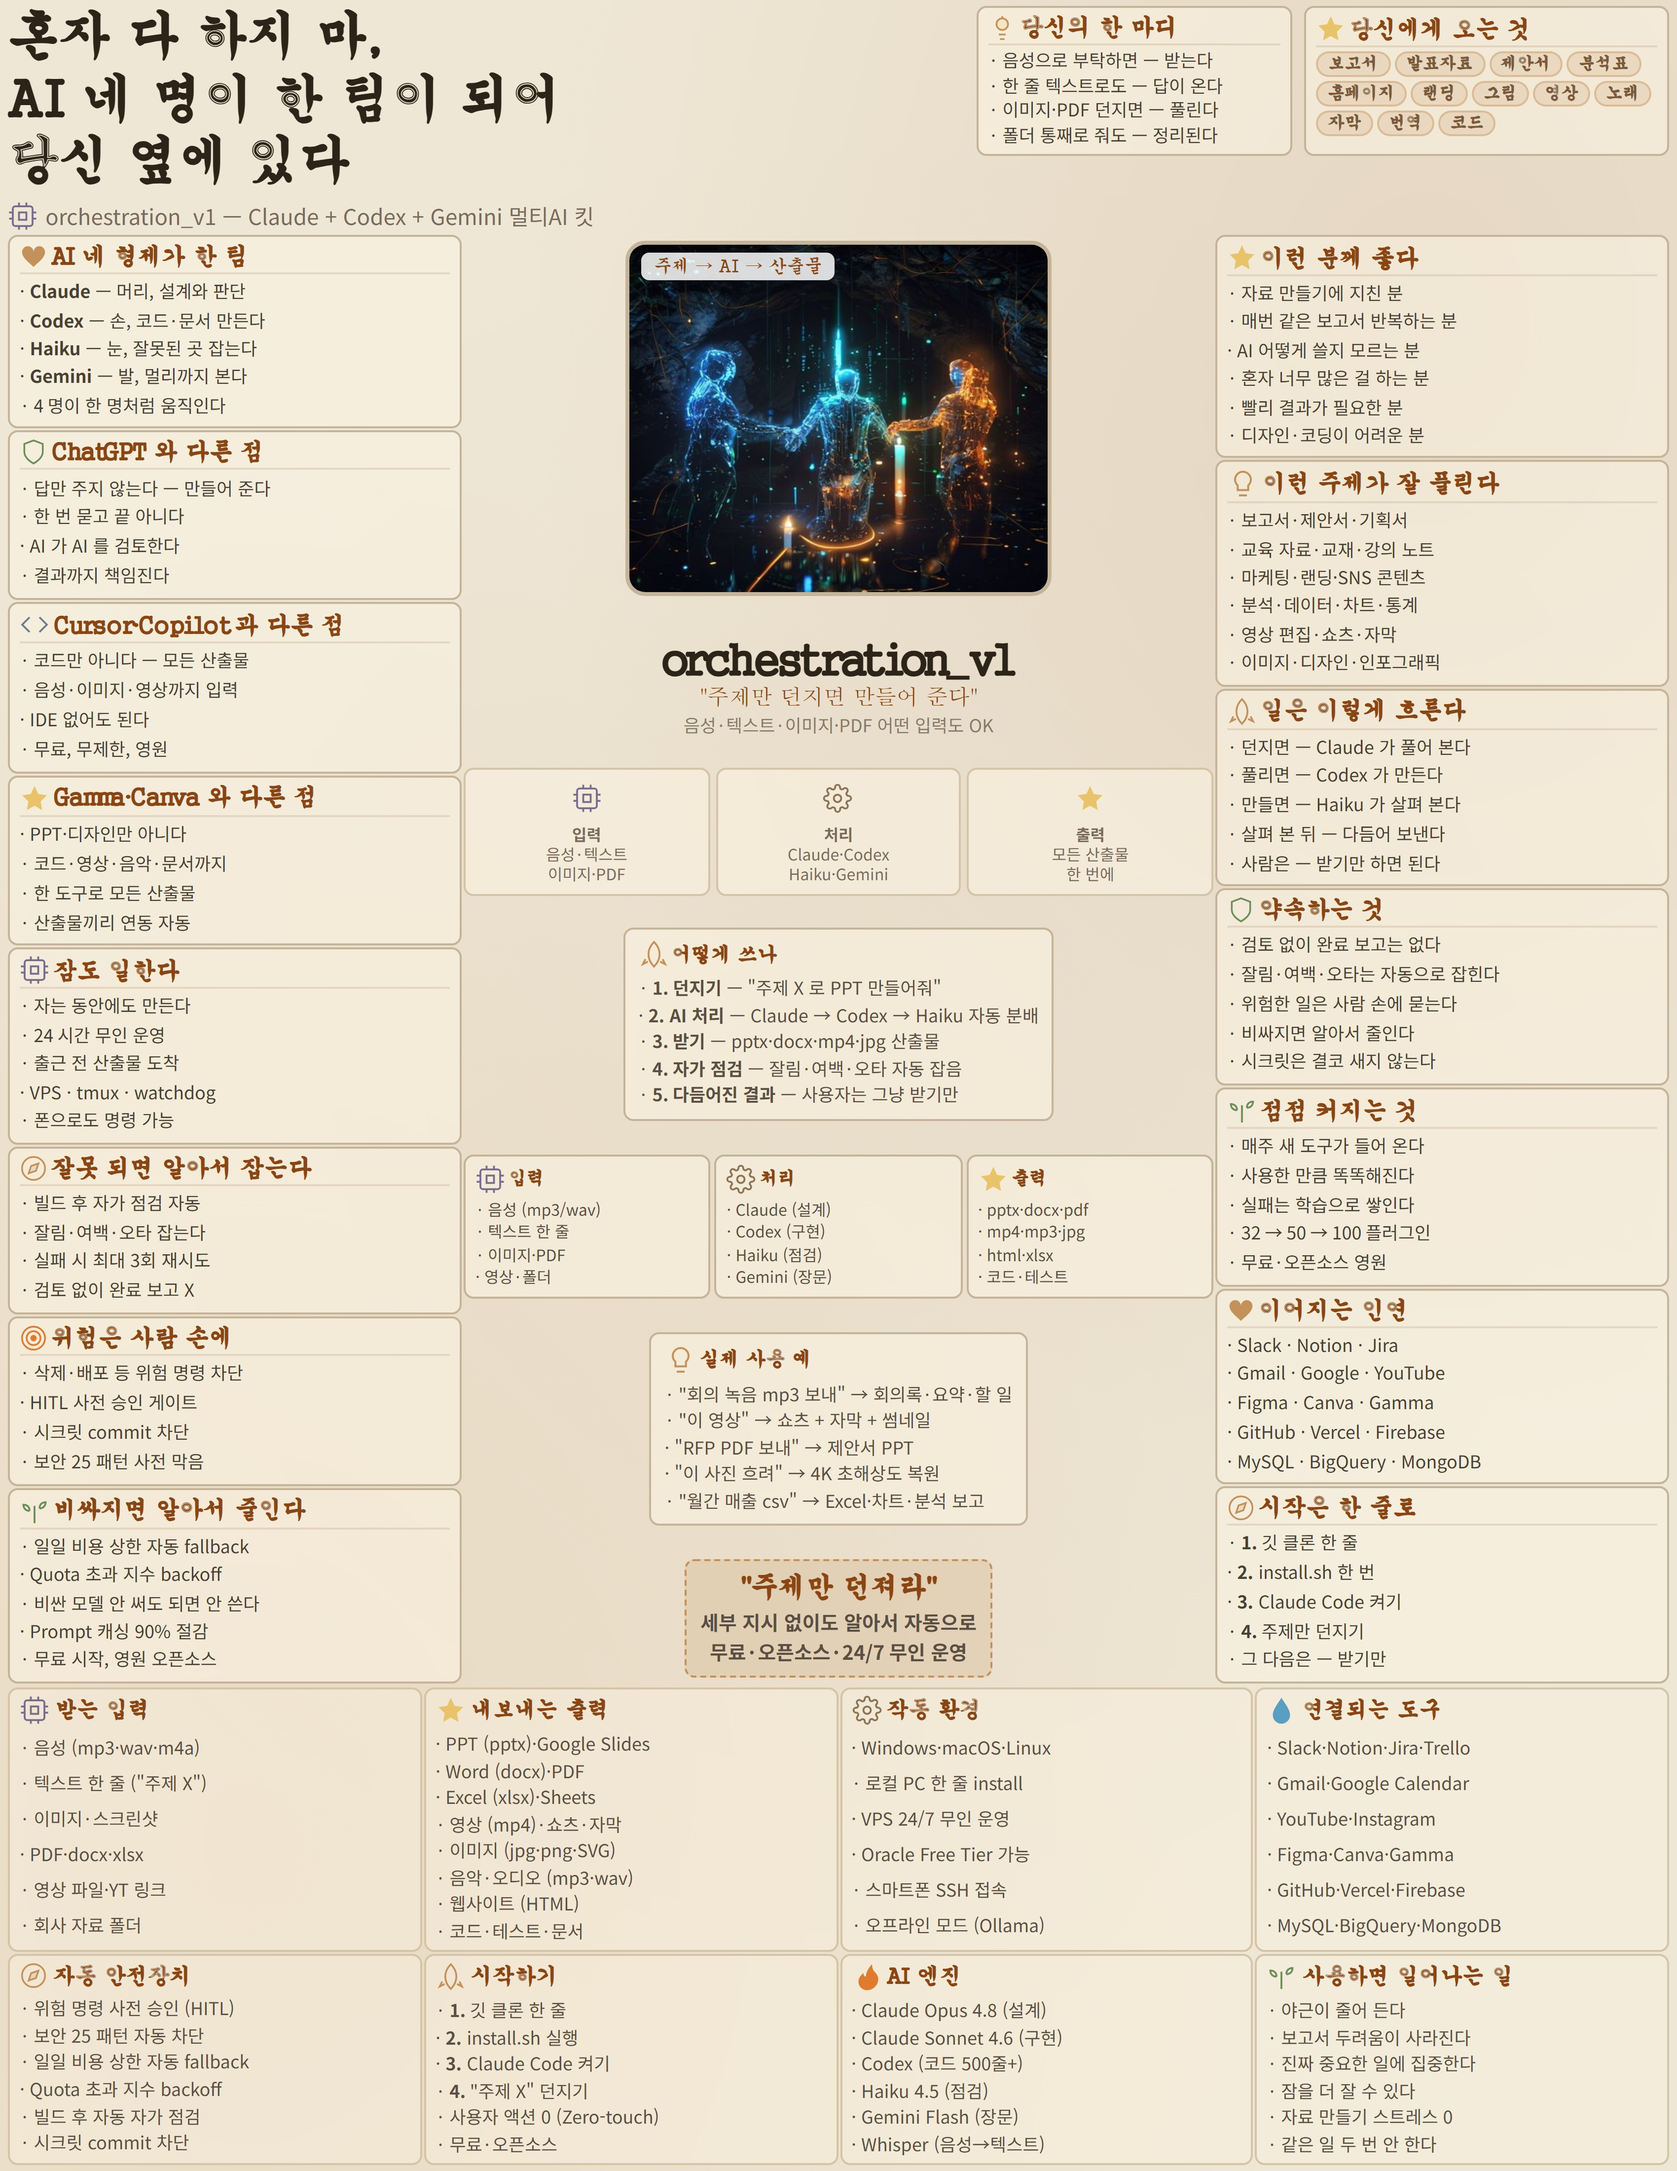
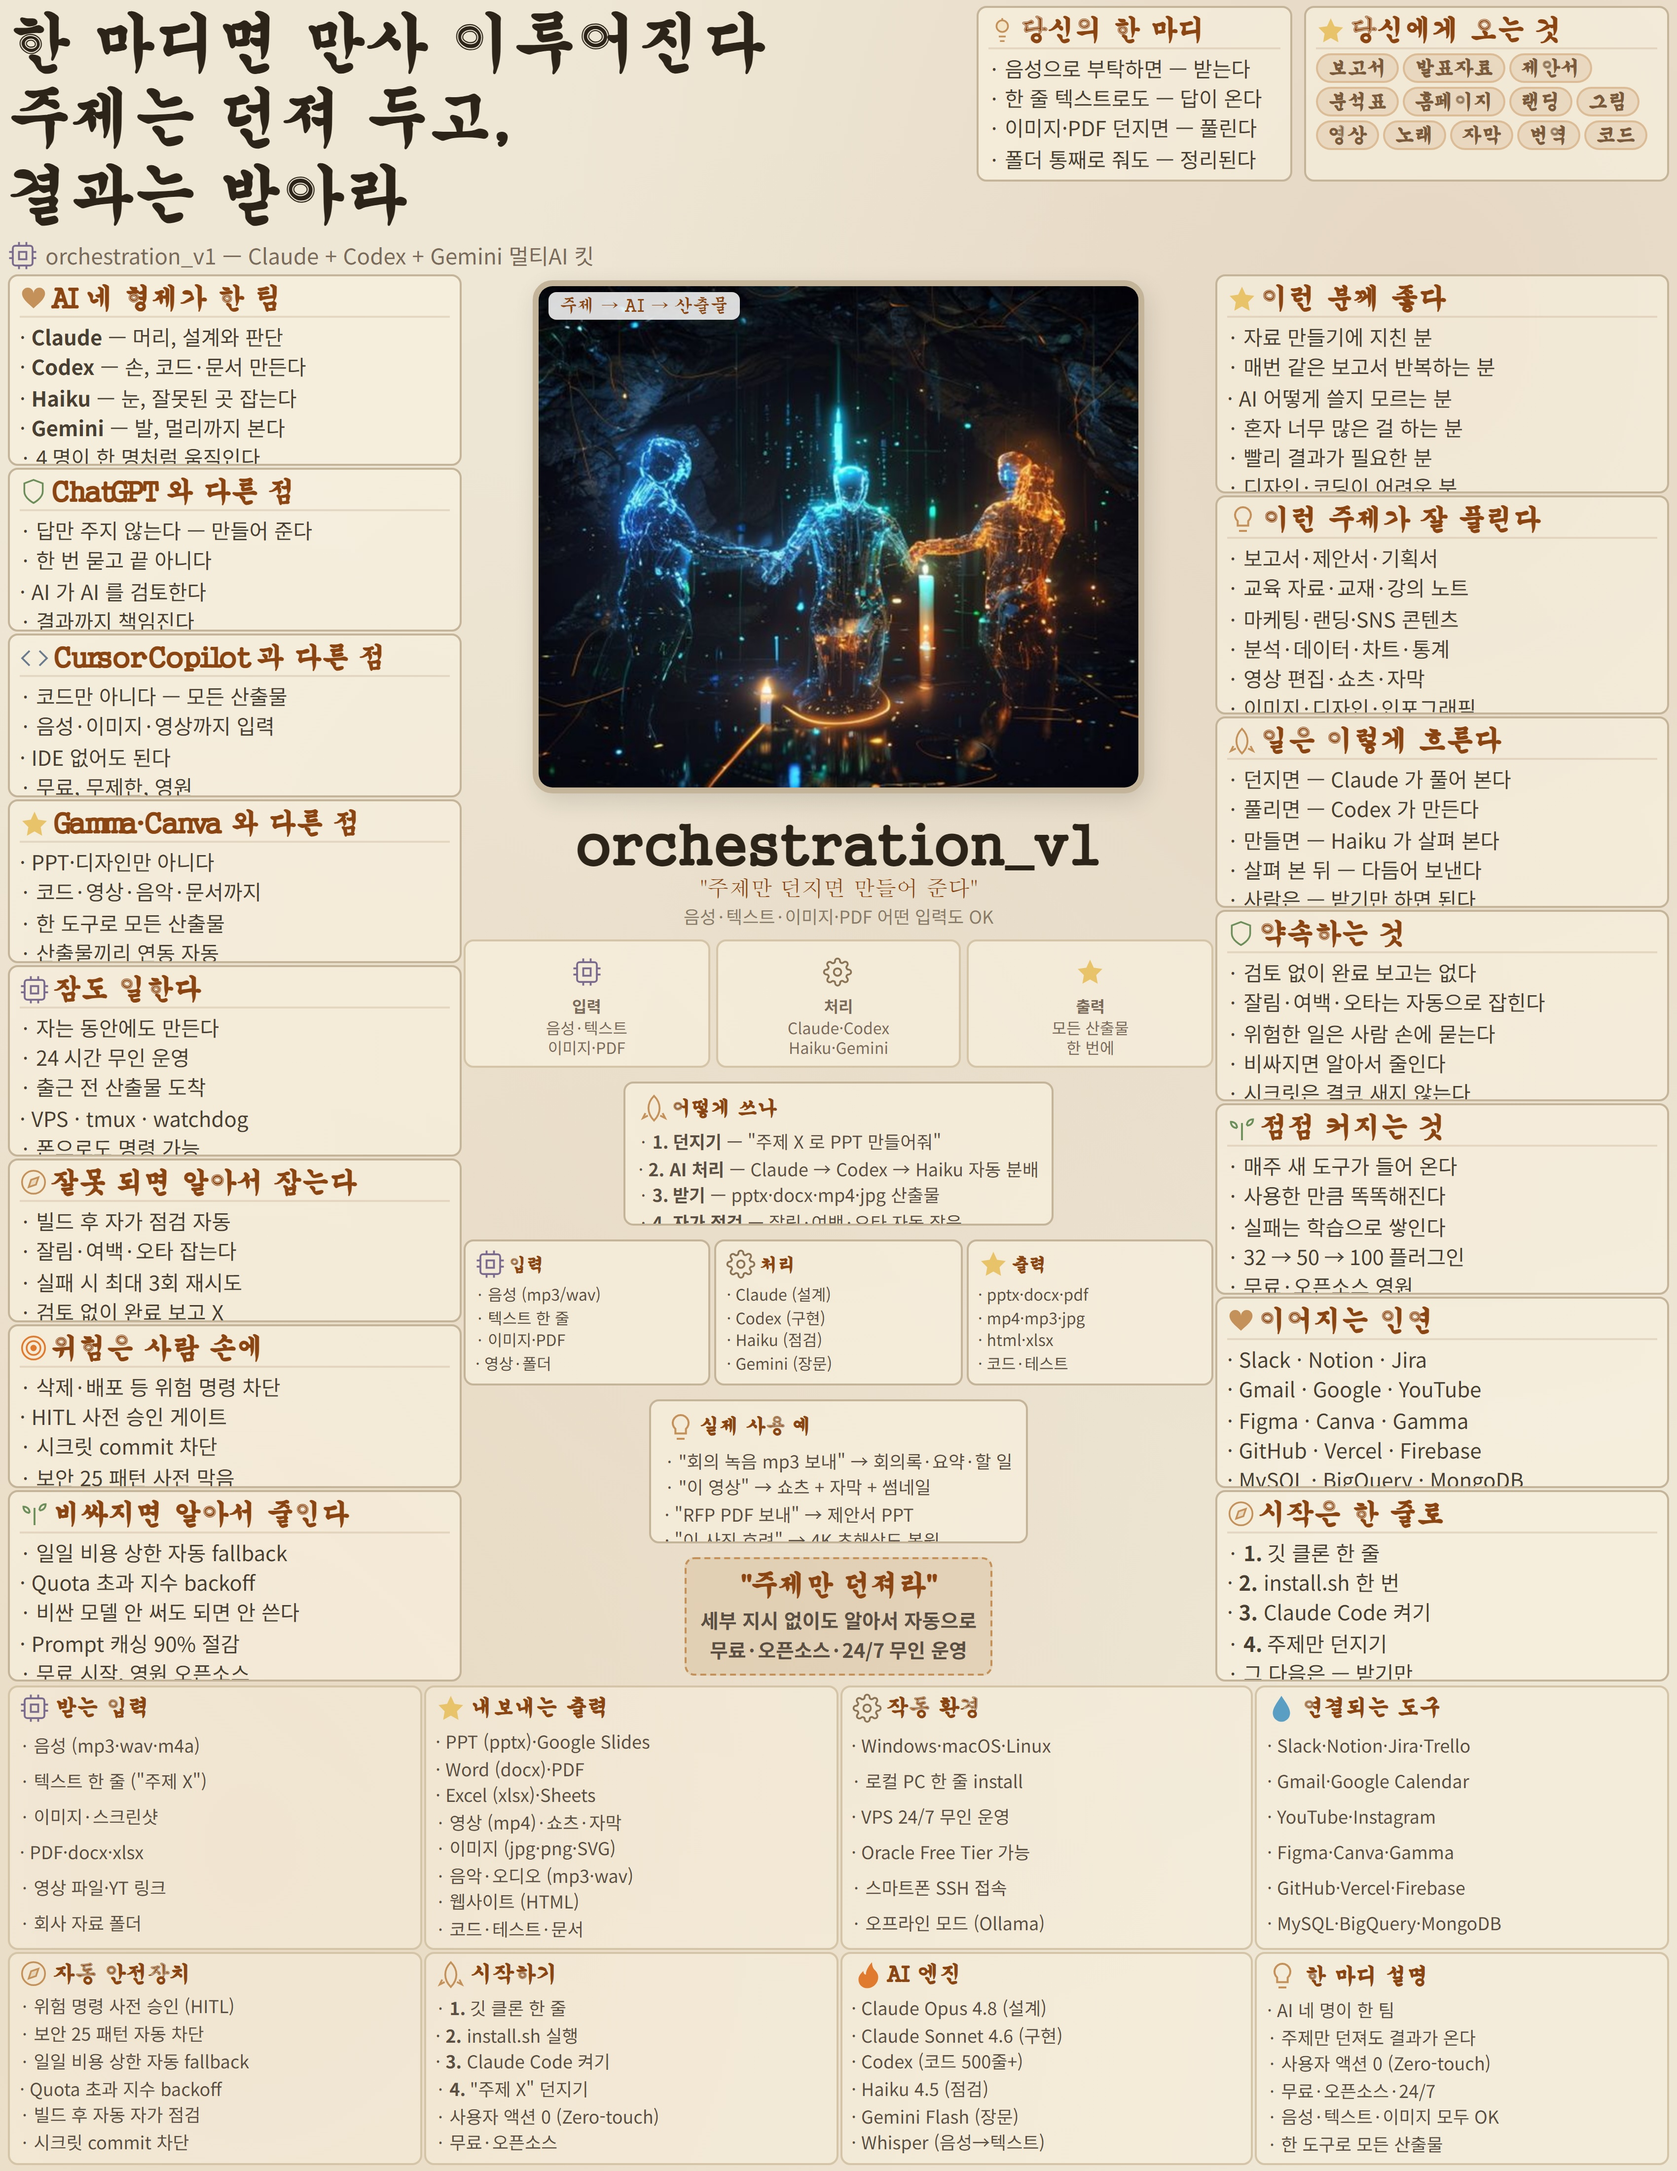
fix(promo): 글자 ↑·그림 ↑ + 시인풍 헤더 (5명 에이전트 투표 결과)
사용자 지적 + 투표:
- "글자 너무 작음" (text_too_small 신호)
- "그림 엄청 크게 + 설명"
- "사용하면 일어나는 일" 카드 폐기
- 5명 에이전트 카피 후보 투표 → A. 시인 선택

변경:
- font 일괄 ↑ — h3 12→14, body 9→10.5, small 8→10, tag 8.5→10
- h1 헤더 26→32px
- name (orchestration_v1) 22→28px
- photo 300×180 → 340×260 + 그림자 추가
- 헤더 H1: "한 마디면 만사 이루어진다 / 주제는 던져 두고, 결과는 받아라" (시인풍)
- bottom "사용하면 일어나는 일" → "한 마디 설명"
  (AI 네 명 한 팀, Zero-touch, 무료, 음성·텍스트·이미지 OK)

에이전트 5명 카피 후보:
A. 시인 (선택됨) — "한 마디면 만사 이루어진다"
B. 광고 — "혼자가 아니다, AI 한 팀이 옆에"
C. 사주가 — "당신의 한 마디가 천 가지 결과로"
D. 엔지니어 — "AI 네 명이 한 팀, Zero-touch 24/7"
E. 친구 — "그냥 던져 봐, 알아서 다 해줄게"

Changed region(s): [[0.0, 0.0, 0.9976, 0.9964], [0.6235, 0.4359, 0.6859, 0.4982], [0.2494, 0.4359, 0.2806, 0.467]]

diff --git a/docs/ssj/orch-promo.html b/docs/ssj/orch-promo.html
@@ -24,11 +24,11 @@
   --pad-btm:3px 4px;
   --radius-card:5px;
   --radius-tag:8px;
-  --font-h3:12px;
-  --font-body-size:9px;
-  --font-small:8px;
-  --font-tag:8.5px;
-  --line-height:1.4;
+  --font-h3:14px;
+  --font-body-size:10.5px;
+  --font-small:10px;
+  --font-tag:10px;
+  --line-height:1.45;
   --shadow-card:1px 2px 6px rgba(0,0,0,.05)
 }
 /* === BASE === */
@@ -51,7 +51,7 @@ body{width:850px;height:1100px;background:#efe7d6;
   radial-gradient(circle at 50% 50%,rgba(180,160,130,.08) 0%,transparent 70%);
   padding:3px 4px;display:flex;flex-direction:column;justify-content:flex-start;gap:1px;overflow:hidden}
 .header{display:flex;justify-content:space-between;align-items:flex-start;flex-shrink:0}
-.header-left h1{font-family:'Gaegu',cursive;font-size:26px;font-weight:700;color:#2c2418;line-height:1.22}
+.header-left h1{font-family:'Gaegu',cursive;font-size:32px;font-weight:700;color:#2c2418;line-height:1.2}
 .header-left .sub{font-size:11px;color:#7a6b5a;margin-top:3px;display:flex;align-items:center;gap:4px}
 .header-right{display:flex;gap:6px;max-width:360px}
 .mid{display:grid;grid-template-columns:230px 1fr 230px;gap:1px;flex:1 1 auto;margin:1px 0;min-height:0}
@@ -60,9 +60,9 @@ body{width:850px;height:1100px;background:#efe7d6;
 .mid-left .card ul,.mid-right .card ul,.mid-left .card .tags,.mid-right .card .tags{flex:1 1 auto;display:flex;flex-direction:column;justify-content:space-around}
 .mid-left .card .tags,.mid-right .card .tags{flex-direction:row;flex-wrap:wrap;align-content:space-around}
 .center{display:flex;flex-direction:column;align-items:center;justify-content:space-between;gap:5px;padding:3px 0;min-height:0}
-.photo{width:100%;max-width:300px;height:180px;border-radius:10px;object-fit:cover;border:2.5px solid #c4b49a;flex-shrink:0}
+.photo{width:100%;max-width:340px;height:260px;border-radius:10px;object-fit:cover;border:3px solid #c4b49a;flex-shrink:0;box-shadow:2px 4px 12px rgba(0,0,0,.12)}
 .name-area{text-align:center;flex-shrink:0}
-.name-area .nm{font-family:'Gaegu',cursive;font-size:22px;font-weight:700;color:#2c2418}
+.name-area .nm{font-family:'Gaegu',cursive;font-size:28px;font-weight:700;color:#2c2418}
 .name-area .inf{font-size:9px;color:#8a7a68;margin-top:1px}
 .stats{display:grid;grid-template-columns:repeat(3,1fr);gap:3px;width:100%;flex-shrink:0}
 .stat{background:rgba(252,244,228,.55);border:1.2px solid #d4c4a8;border-radius:5px;padding:4px;text-align:center}
@@ -77,7 +77,7 @@ body{width:850px;height:1100px;background:#efe7d6;
 
 <div class="header">
   <div class="header-left">
-    <h1>혼자 다 하지 마,<br>AI 네 명이 한 팀이 되어<br>당신 옆에 있다</h1>
+    <h1>한 마디면 만사 이루어진다<br>주제는 던져 두고,<br>결과는 받아라</h1>
     <div class="sub"><svg viewBox="0 0 24 24" width="15" height="15" fill="none" stroke="#7a6b8e" stroke-width="1.5"><rect x="4" y="4" width="16" height="16" rx="2"/><rect x="9" y="9" width="6" height="6"/><path d="M9 1v3M15 1v3M9 20v3M15 20v3M20 9h3M20 14h3M1 9h3M1 14h3"/></svg> orchestration_v1 — Claude + Codex + Gemini 멀티AI 킷</div>
   </div>
   <div class="header-right">
@@ -411,14 +411,14 @@ body{width:850px;height:1100px;background:#efe7d6;
     </ul>
   </div>
   <div class="btm-card">
-    <h4><svg viewBox="0 0 24 24" width="15" height="15" fill="none" stroke="#6b8e5a" stroke-width="1.5"><path d="M12 22V8M8 12c-3 0-5-2-5-5 3 0 5 2 5 5M16 10c3 0 5-2 5-5-3 0-5 2-5 5"/></svg> 사용하면 일어나는 일</h4>
+    <h4><svg viewBox="0 0 24 24" width="16" height="16" fill="none" stroke="#c4915a" stroke-width="1.5"><path d="M9 21h6M12 3a6 6 0 0 0-4 10.5V17h8v-3.5A6 6 0 0 0 12 3z"/></svg> 한 마디 설명</h4>
     <ul>
-      <li>&middot; 야근이 줄어 든다</li>
-      <li>&middot; 보고서 두려움이 사라진다</li>
-      <li>&middot; 진짜 중요한 일에 집중한다</li>
-      <li>&middot; 잠을 더 잘 수 있다</li>
-      <li>&middot; 자료 만들기 스트레스 0</li>
-      <li>&middot; 같은 일 두 번 안 한다</li>
+      <li>&middot; AI 네 명이 한 팀</li>
+      <li>&middot; 주제만 던져도 결과가 온다</li>
+      <li>&middot; 사용자 액션 0 (Zero-touch)</li>
+      <li>&middot; 무료·오픈소스·24/7</li>
+      <li>&middot; 음성·텍스트·이미지 모두 OK</li>
+      <li>&middot; 한 도구로 모든 산출물</li>
     </ul>
   </div>
 </div>

diff --git a/docs/ssj/render-ssj.py b/docs/ssj/render-ssj.py
@@ -64,11 +64,11 @@ COMMON_CSS = """
   --pad-btm:3px 4px;
   --radius-card:5px;
   --radius-tag:8px;
-  --font-h3:12px;
-  --font-body-size:9px;
-  --font-small:8px;
-  --font-tag:8.5px;
-  --line-height:1.4;
+  --font-h3:14px;
+  --font-body-size:10.5px;
+  --font-small:10px;
+  --font-tag:10px;
+  --line-height:1.45;
   --shadow-card:1px 2px 6px rgba(0,0,0,.05)
 }
 /* === BASE === */
@@ -96,7 +96,7 @@ body{{width:850px;height:1100px;background:#efe7d6;
   radial-gradient(circle at 50% 50%,rgba(180,160,130,.08) 0%,transparent 70%);
   padding:3px 4px;display:flex;flex-direction:column;justify-content:flex-start;gap:1px;overflow:hidden}}
 .header{{display:flex;justify-content:space-between;align-items:flex-start;flex-shrink:0}}
-.header-left h1{{font-family:'Gaegu',cursive;font-size:26px;font-weight:700;color:#2c2418;line-height:1.22}}
+.header-left h1{{font-family:'Gaegu',cursive;font-size:32px;font-weight:700;color:#2c2418;line-height:1.2}}
 .header-left .sub{{font-size:11px;color:#7a6b5a;margin-top:3px;display:flex;align-items:center;gap:4px}}
 .header-right{{display:flex;gap:6px;max-width:360px}}
 .mid{{display:grid;grid-template-columns:230px 1fr 230px;gap:1px;flex:1 1 auto;margin:1px 0;min-height:0}}
@@ -105,9 +105,9 @@ body{{width:850px;height:1100px;background:#efe7d6;
 .mid-left .card ul,.mid-right .card ul,.mid-left .card .tags,.mid-right .card .tags{{flex:1 1 auto;display:flex;flex-direction:column;justify-content:space-around}}
 .mid-left .card .tags,.mid-right .card .tags{{flex-direction:row;flex-wrap:wrap;align-content:space-around}}
 .center{{display:flex;flex-direction:column;align-items:center;justify-content:space-between;gap:5px;padding:3px 0;min-height:0}}
-.photo{{width:100%;max-width:300px;height:180px;border-radius:10px;object-fit:cover;border:2.5px solid #c4b49a;flex-shrink:0}}
+.photo{{width:100%;max-width:340px;height:260px;border-radius:10px;object-fit:cover;border:3px solid #c4b49a;flex-shrink:0;box-shadow:2px 4px 12px rgba(0,0,0,.12)}}
 .name-area{{text-align:center;flex-shrink:0}}
-.name-area .nm{{font-family:'Gaegu',cursive;font-size:22px;font-weight:700;color:#2c2418}}
+.name-area .nm{{font-family:'Gaegu',cursive;font-size:28px;font-weight:700;color:#2c2418}}
 .name-area .inf{{font-size:9px;color:#8a7a68;margin-top:1px}}
 .stats{{display:grid;grid-template-columns:repeat(3,1fr);gap:3px;width:100%;flex-shrink:0}}
 .stat{{background:rgba(252,244,228,.55);border:1.2px solid #d4c4a8;border-radius:5px;padding:4px;text-align:center}}
@@ -122,7 +122,7 @@ body{{width:850px;height:1100px;background:#efe7d6;
 
 <div class="header">
   <div class="header-left">
-    <h1>혼자 다 하지 마,<br>AI 네 명이 한 팀이 되어<br>당신 옆에 있다</h1>
+    <h1>한 마디면 만사 이루어진다<br>주제는 던져 두고,<br>결과는 받아라</h1>
     <div class="sub">{I['cpu']} orchestration_v1 — Claude + Codex + Gemini 멀티AI 킷</div>
   </div>
   <div class="header-right">
@@ -456,14 +456,14 @@ body{{width:850px;height:1100px;background:#efe7d6;
     </ul>
   </div>
   <div class="btm-card">
-    <h4>{I['plant']} 사용하면 일어나는 일</h4>
+    <h4>{I['bulb']} 한 마디 설명</h4>
     <ul>
-      <li>&middot; 야근이 줄어 든다</li>
-      <li>&middot; 보고서 두려움이 사라진다</li>
-      <li>&middot; 진짜 중요한 일에 집중한다</li>
-      <li>&middot; 잠을 더 잘 수 있다</li>
-      <li>&middot; 자료 만들기 스트레스 0</li>
-      <li>&middot; 같은 일 두 번 안 한다</li>
+      <li>&middot; AI 네 명이 한 팀</li>
+      <li>&middot; 주제만 던져도 결과가 온다</li>
+      <li>&middot; 사용자 액션 0 (Zero-touch)</li>
+      <li>&middot; 무료·오픈소스·24/7</li>
+      <li>&middot; 음성·텍스트·이미지 모두 OK</li>
+      <li>&middot; 한 도구로 모든 산출물</li>
     </ul>
   </div>
 </div>
